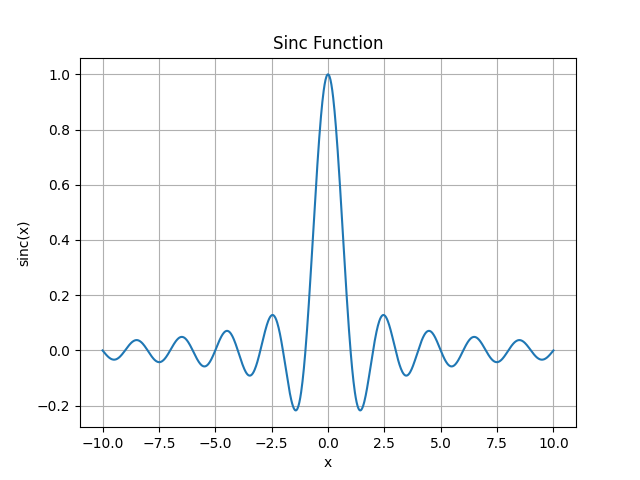
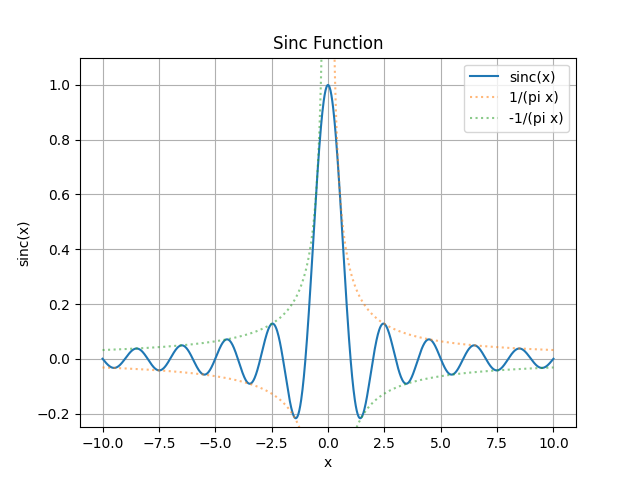
Added envelope functions

diff --git a/resources/sinc_plot.py b/resources/sinc_plot.py
@@ -4,10 +4,21 @@ import matplotlib.pyplot as plt
 
 x = np.linspace(-10, 10, 1000)
 y = scipy.special.sinc(x)
+y_pos_asymptote = 1 / (np.pi * x)
+y_neg_asymptote = -1 / (np.pi * x)
 
-plt.plot(x, y)
+# Break the asymptote curves near x=0 to avoid a vertical connection line.
+near_zero = np.abs(x) < 0.2
+y_pos_asymptote[near_zero] = np.nan
+y_neg_asymptote[near_zero] = np.nan
+
+plt.plot(x, y, label="sinc(x)")
+plt.plot(x, y_pos_asymptote, label="1/(pi x)", linestyle=":", color="tab:orange", alpha=0.55)
+plt.plot(x, y_neg_asymptote, label="-1/(pi x)", linestyle=":", color="tab:green", alpha=0.55)
 plt.title("Sinc Function")
 plt.xlabel("x")
 plt.ylabel("sinc(x)")
+plt.ylim(-0.25, 1.1)
 plt.grid(True)
+plt.legend()
 plt.savefig("resources/sinc_plot.png")

diff --git a/content.md b/content.md
@@ -6,7 +6,7 @@ $$
 
 It has the property that $\text{sinc}(0) = 1$.
 
-![A plot of the sinc function](resources/sinc_plot.png)
+![A plot of the sinc function and the functions 1/(πx) and -1/(πx) which act as envelopes for the sinc function](resources/sinc_plot.png)
 
 # Usage
 
